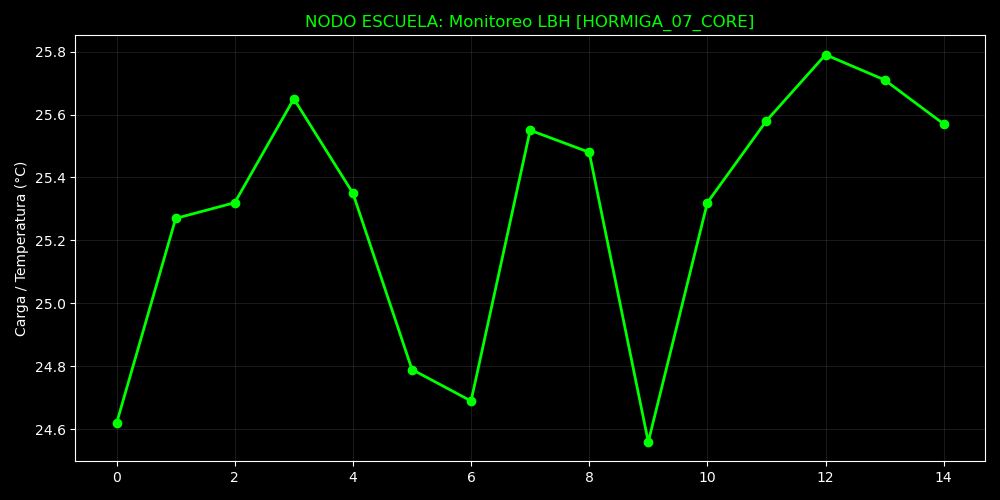
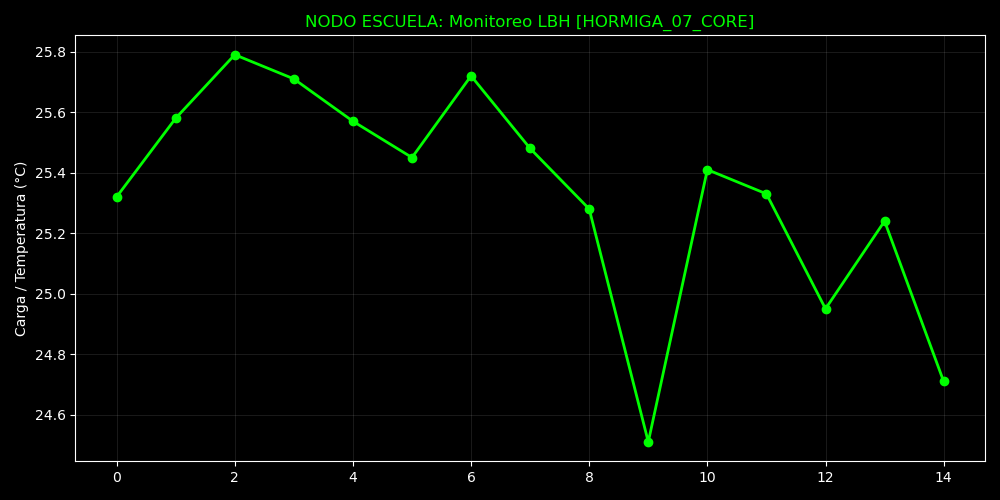
📈 Gráfico Vivo: HORMIGA_07_CORE [2025-12-28 22:03:09]

diff --git a/README.md b/README.md
@@ -7,7 +7,7 @@
 ![Rendimiento del Enjambre](REPORTE_RENDIMIENTO_HORMIGAS.png)
 
 > **Estado:** Operativo validado por protocolo LBH.
-> **Última Actualización: 2025-12-28 22:02:02 CST (LBH-Validated)
+> **Última Actualización: 2025-12-28 22:03:09 CST (LBH-Validated)
 
 ---
 © 2025 HormigasAIS - San Miguel, El Salvador.
